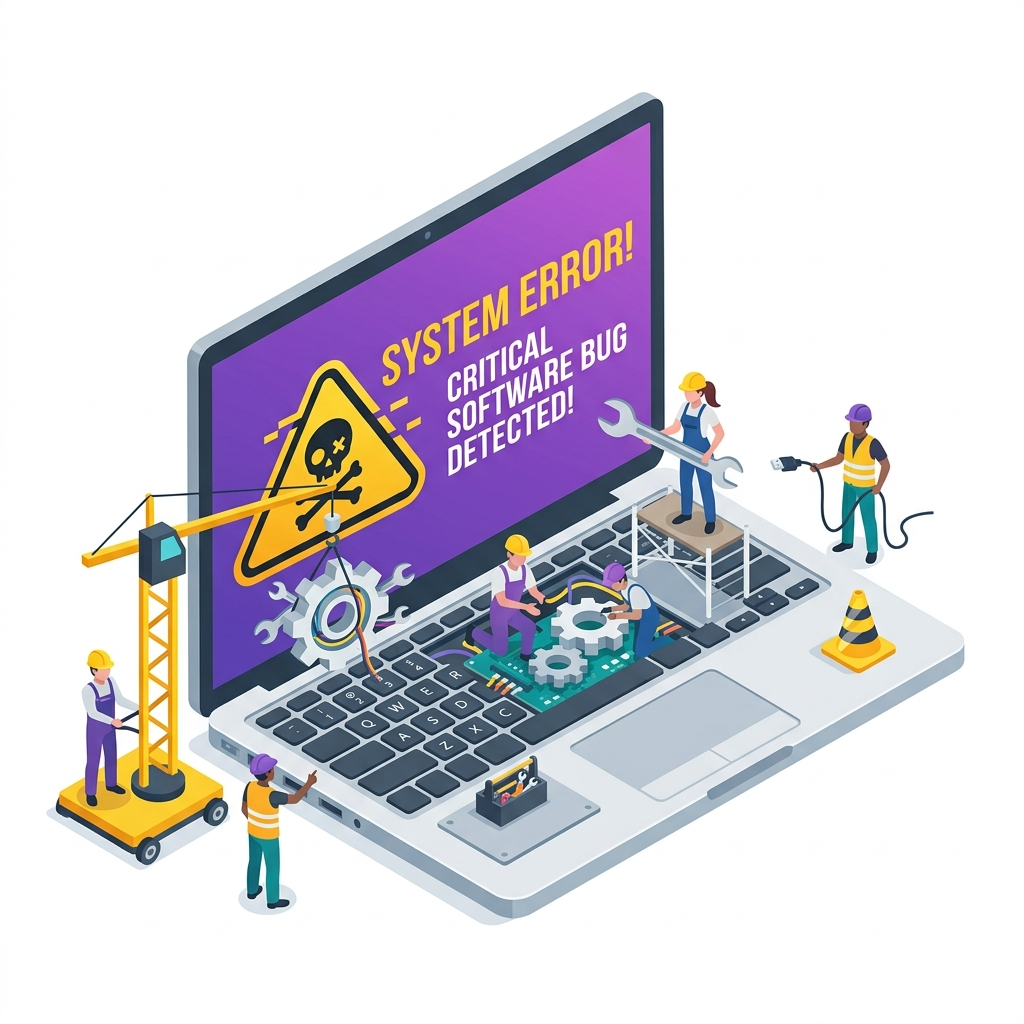
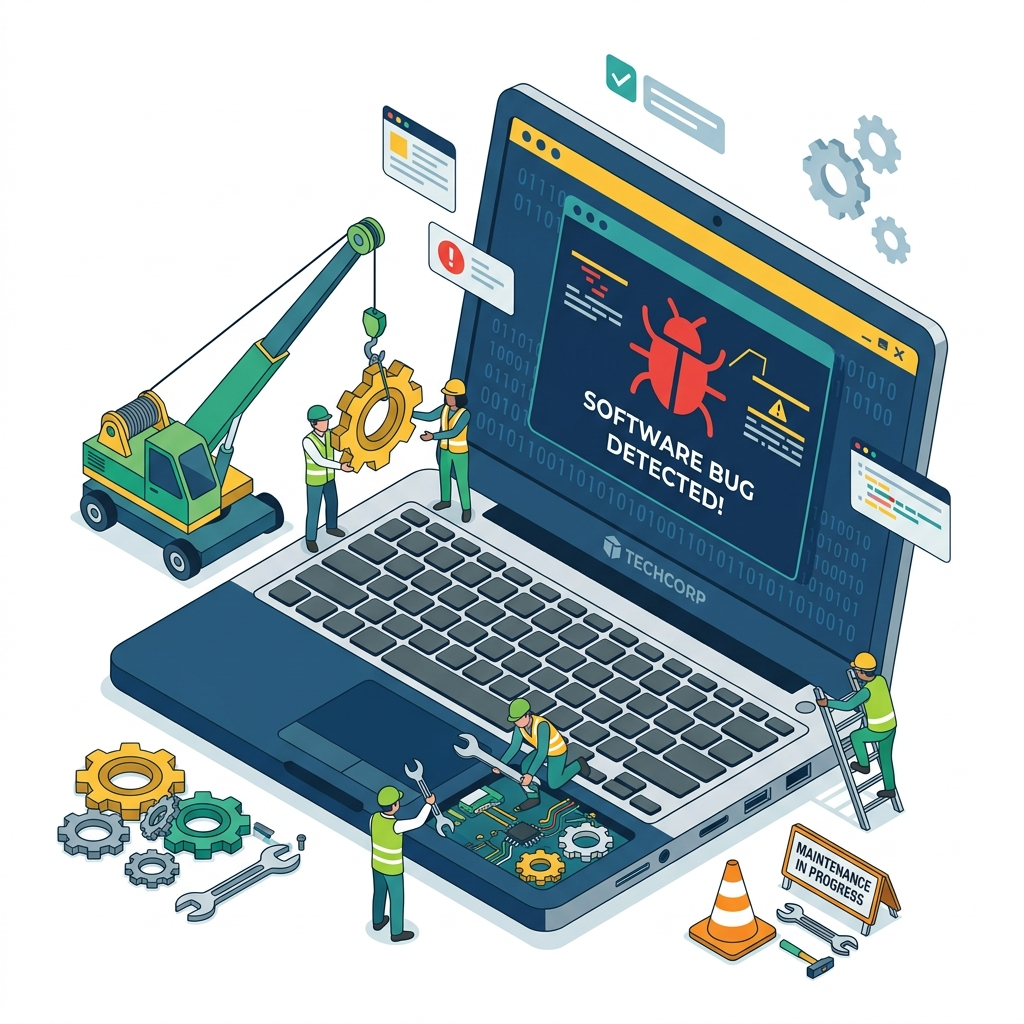
style: switch maintenance illustration and button to green theme

diff --git a/src/app/maintenance/page.tsx b/src/app/maintenance/page.tsx
@@ -29,7 +29,7 @@ export default function MaintenancePage() {
               placeholder="Enter Your Email" 
               className="h-14 w-full bg-slate-50 dark:bg-slate-900 border-slate-200 dark:border-slate-800 text-base"
             />
-            <Button className="h-14 w-full sm:w-auto px-8 bg-[#1f1a38] hover:bg-[#151128] text-white text-base">
+            <Button className="h-14 w-full sm:w-auto px-8 bg-primary hover:bg-primary/90 text-primary-foreground text-base">
               Notify Me
             </Button>
           </div>
